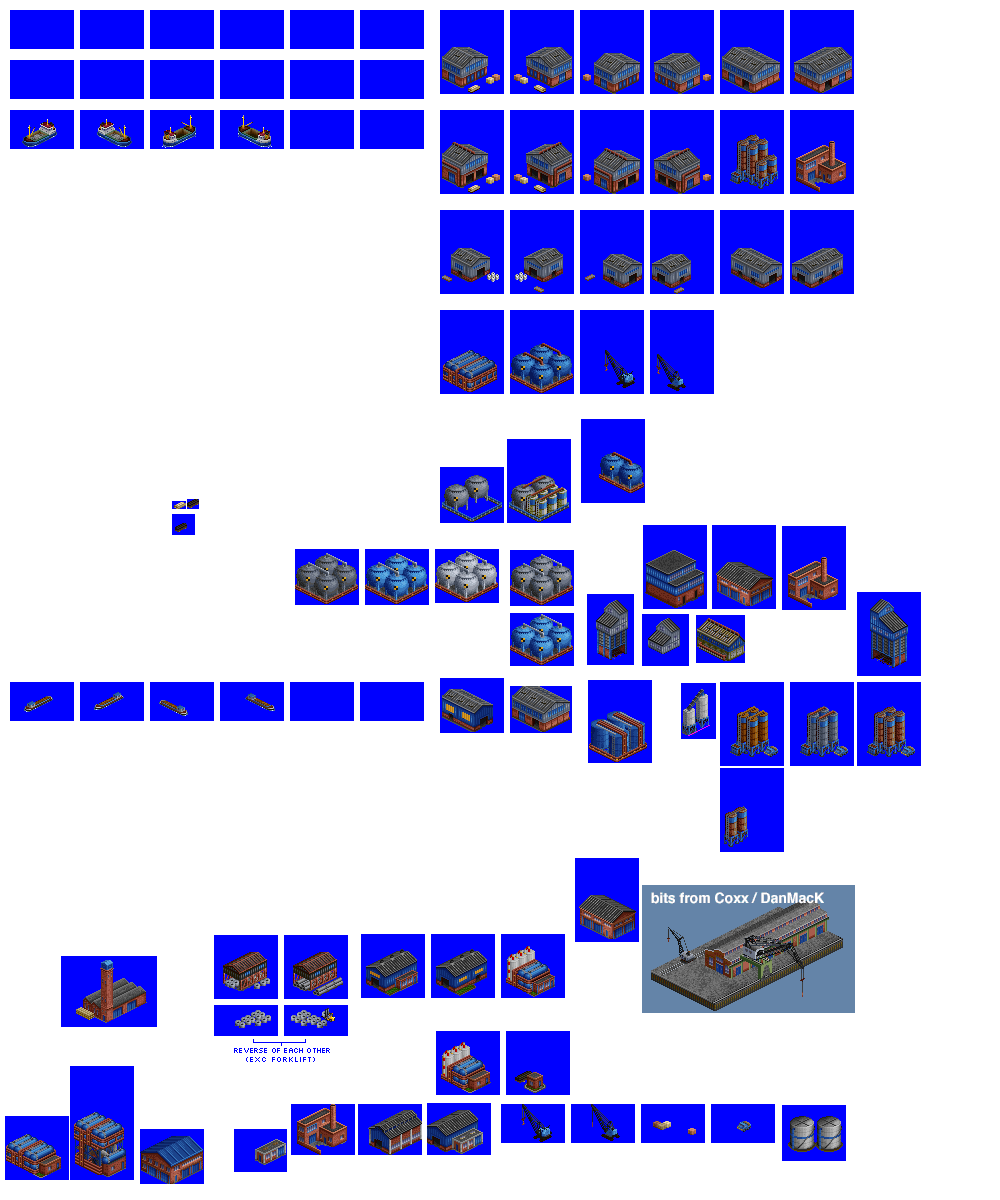
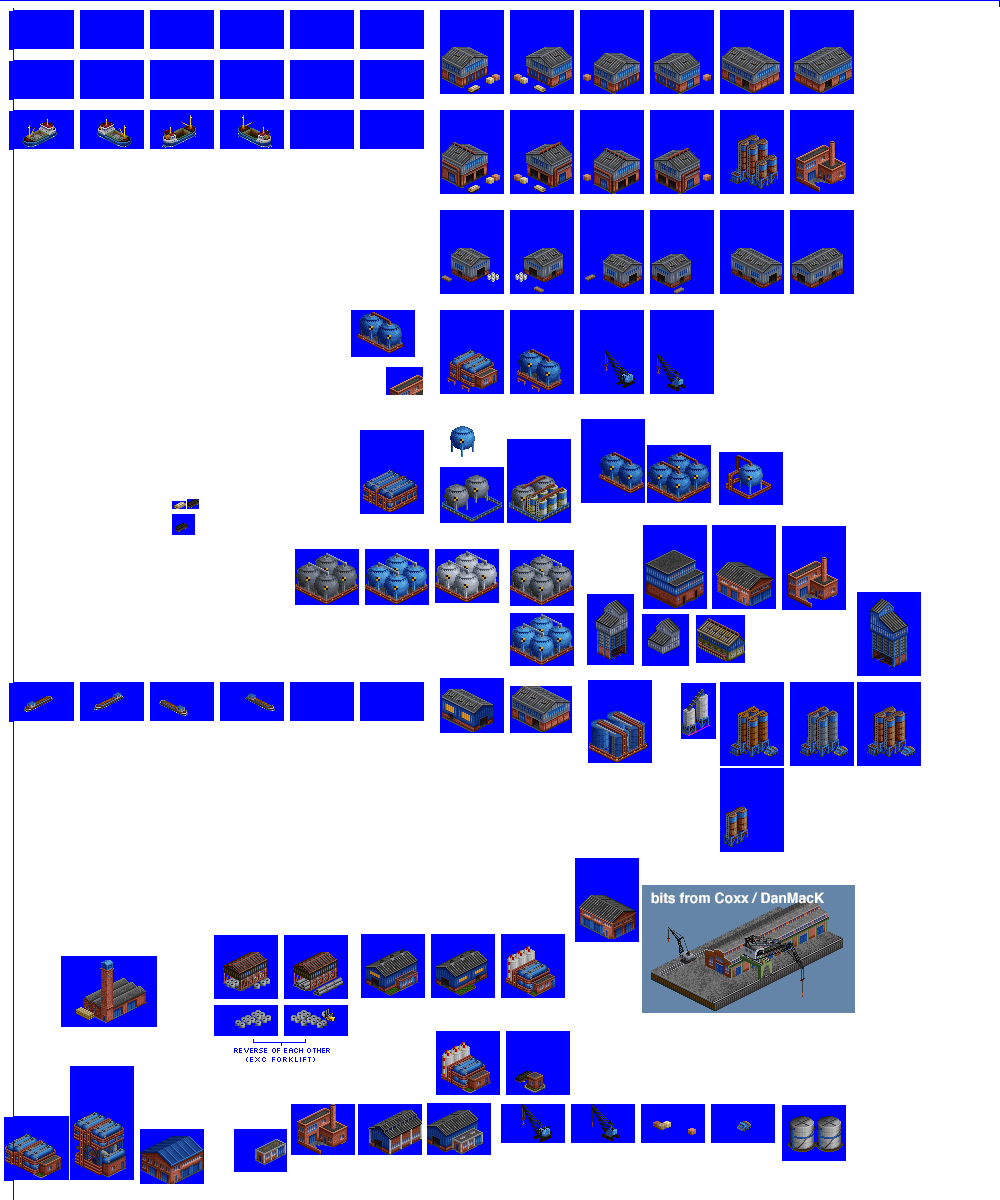
Change: improved version of Port, reduced chemical tank density

Changed region(s): [[0.341, 0.2467, 0.589, 0.4317], [0.62, 0.37, 0.806, 0.4317], [0.0, 0.9558, 0.031, 0.9867]]

diff --git a/src/industries/port.py b/src/industries/port.py
@@ -164,33 +164,13 @@ spriteset_shed_full_nw_se = industry.add_spriteset(
 spriteset_shed_full_ne_sw = industry.add_spriteset(
     sprites=[(790, 210, 64, 84, -31, -61)],
 )
-# horizontal tanks use the same sprite, but adjusted offsets for each coast
-spriteset_tanks_horizontal_nw_se = industry.add_spriteset(
+spriteset_tanks_horizontal = industry.add_spriteset(
     sprites=[(440, 310, 64, 84, -31, -61)],
 )
-spriteset_tanks_horizontal_ne_sw = industry.add_spriteset(
-    sprites=[(440, 310, 64, 84, -27, -61)],
-)
-spriteset_tanks_horizontal_se_nw = industry.add_spriteset(
-    sprites=[(440, 310, 64, 84, -30, -61)],
-)
-spriteset_tanks_horizontal_sw_ne = industry.add_spriteset(
-    sprites=[(440, 310, 64, 84, -28, -61)],
-)
-# sphere tanks use the same sprite, but adjusted offsets for each coast
-spriteset_tanks_sphere_nw_se = industry.add_spriteset(
+spriteset_tanks_sphere = industry.add_spriteset(
     sprites=[(510, 310, 64, 84, -31, -61)],
 )
-spriteset_tanks_sphere_ne_sw = industry.add_spriteset(
-    sprites=[(510, 310, 64, 84, -30, -61)],
-)
-spriteset_tanks_sphere_se_nw = industry.add_spriteset(
-    sprites=[(510, 310, 64, 84, -30, -61)],
-)
-spriteset_tanks_sphere_sw_ne = industry.add_spriteset(
-    sprites=[(510, 310, 64, 84, -31, -61)],
-)
-# sphere tanks use the same sprite, but adjusted offsets for each coast
+# silos use the same sprite, but adjusted offsets for each coast
 spriteset_silos_nw_se = industry.add_spriteset(
     sprites=[(720, 110, 64, 84, -33, -60)],
 )
@@ -304,16 +284,16 @@ industry.add_magic_spritelayout(
         "jetty_foundations": True,
         "building_sprites": {
             "se": [
-                spriteset_tanks_horizontal_nw_se,
+                spriteset_tanks_horizontal,
             ],
             "sw": [
-                spriteset_tanks_horizontal_ne_sw,
+                spriteset_tanks_horizontal,
             ],
             "nw": [
-                spriteset_tanks_horizontal_se_nw,
+                spriteset_tanks_horizontal,
             ],
             "ne": [
-                spriteset_tanks_horizontal_sw_ne,
+                spriteset_tanks_horizontal,
             ],
         },
     },
@@ -326,16 +306,16 @@ industry.add_magic_spritelayout(
         "jetty_foundations": True,
         "building_sprites": {
             "se": [
-                spriteset_tanks_sphere_nw_se,
+                spriteset_tanks_sphere,
             ],
             "sw": [
-                spriteset_tanks_sphere_ne_sw,
+                spriteset_tanks_sphere,
             ],
             "nw": [
-                spriteset_tanks_sphere_se_nw,
+                spriteset_tanks_sphere,
             ],
             "ne": [
-                spriteset_tanks_sphere_sw_ne,
+                spriteset_tanks_sphere,
             ],
         },
     },
